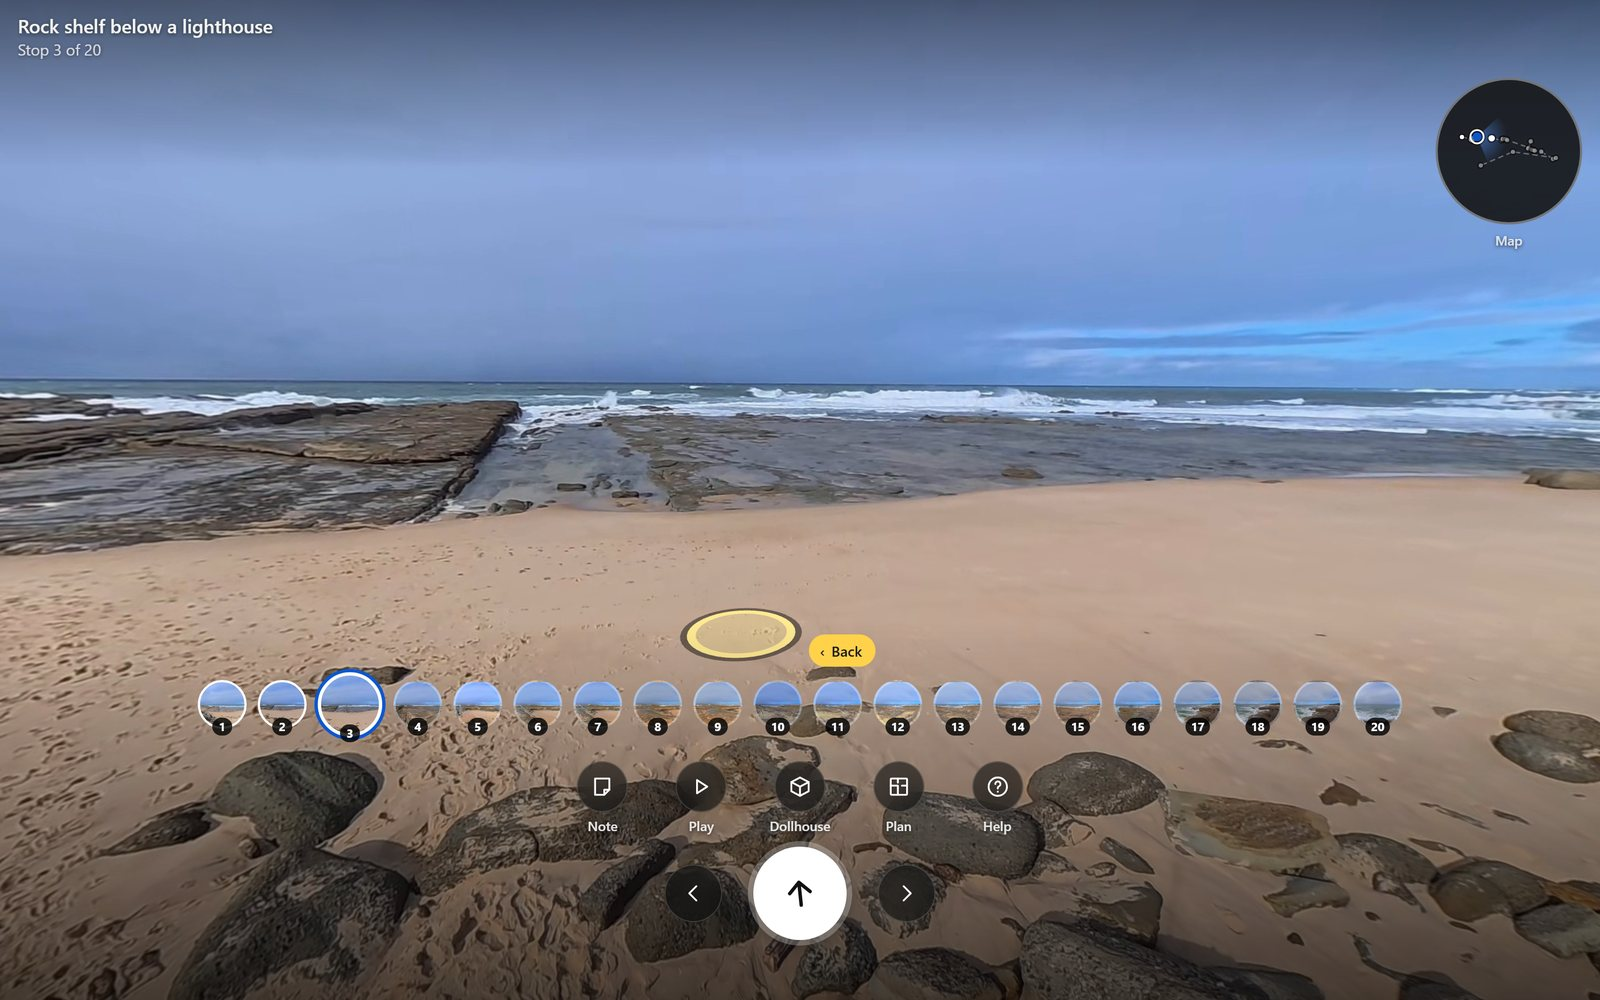
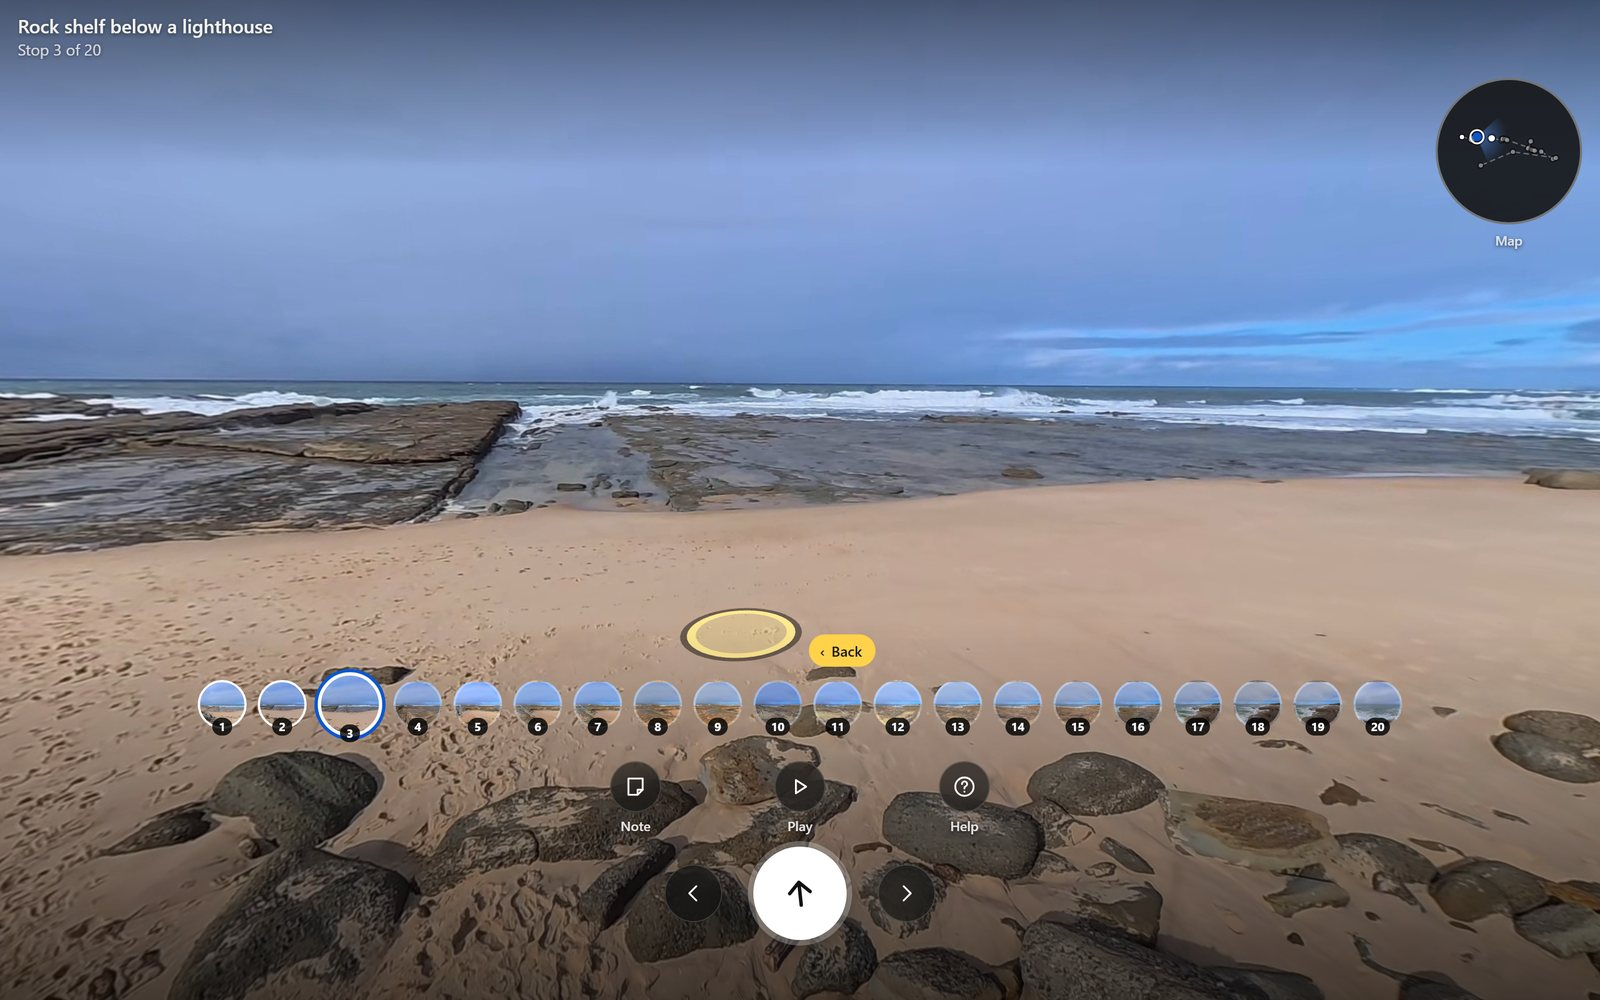
Viewer: dollhouse and plan only with ?lab for now; pictures and README say what a tour is

Changed region(s): [[0.3438, 0.744, 0.5312, 0.837], [0.5312, 0.744, 0.6562, 0.837]]

diff --git a/viewer/index.html b/viewer/index.html
@@ -1441,8 +1441,10 @@
     for (const e of edges) e.el.style.display = 'none';
   }
   $('bDoll').onclick = dollOpen;
-  if (tour.dollhouse) $('bDoll').hidden = false;
-  if (tour.plan) $('bPlan').hidden = false;
+  // THE DOLLHOUSE AND THE PLAN ARE NOT READY (2026-10-31): built and kept, shown only with ?lab in the address until they are good enough
+  const LAB = /[?&]lab/.test(location.search);
+  if (LAB && tour.dollhouse) $('bDoll').hidden = false;
+  if (LAB && tour.plan) $('bPlan').hidden = false;
 
 
   // ---------- pinned notes: press and hold (or right-click, or the Note button then tap) a spot; the note is seen from every stop that can see that spot ----------
